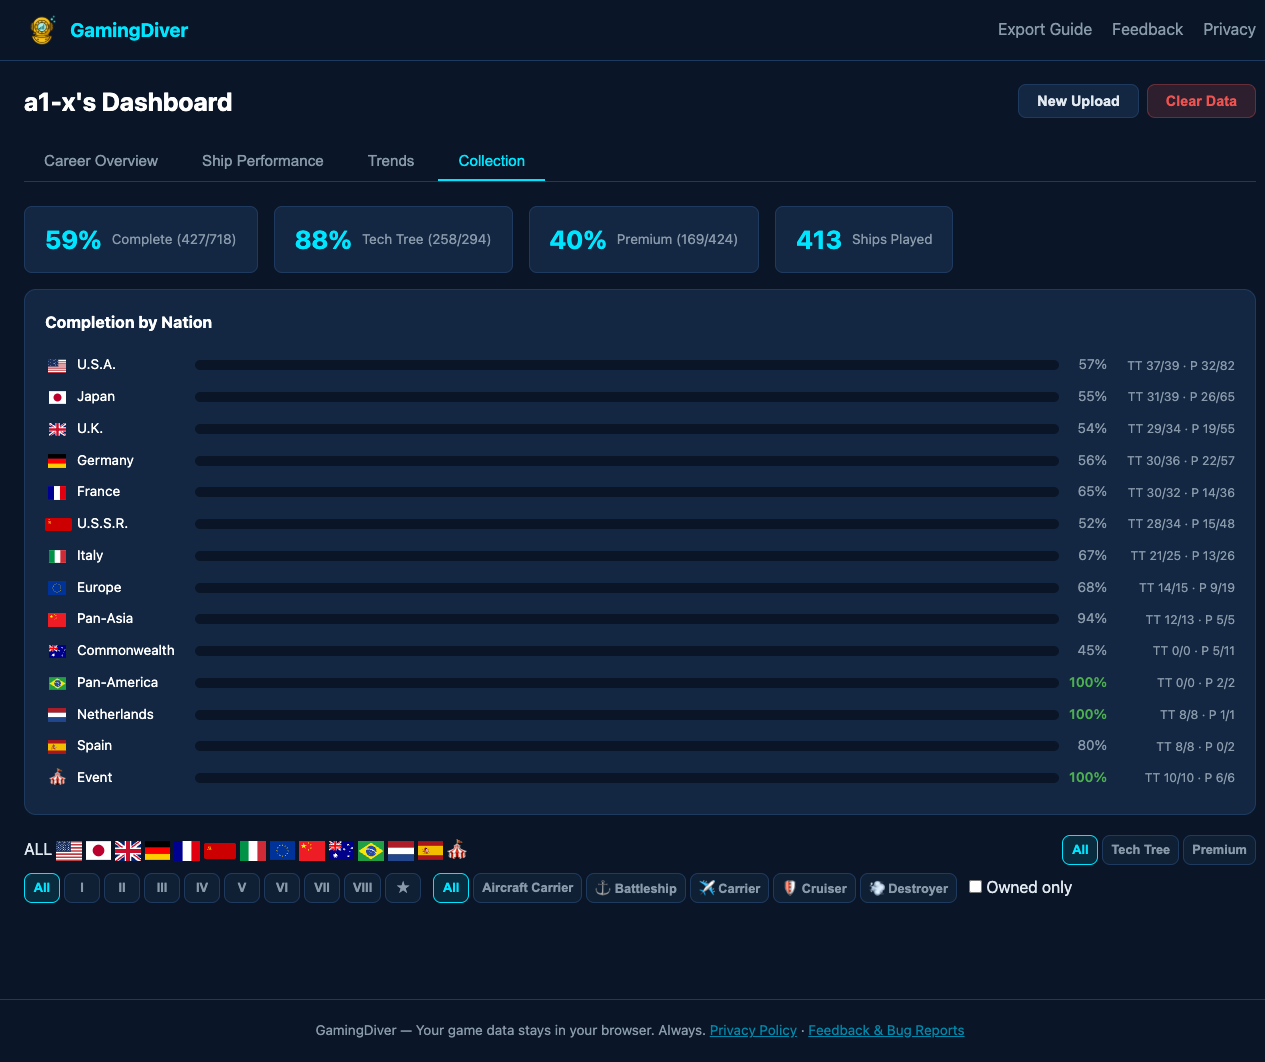
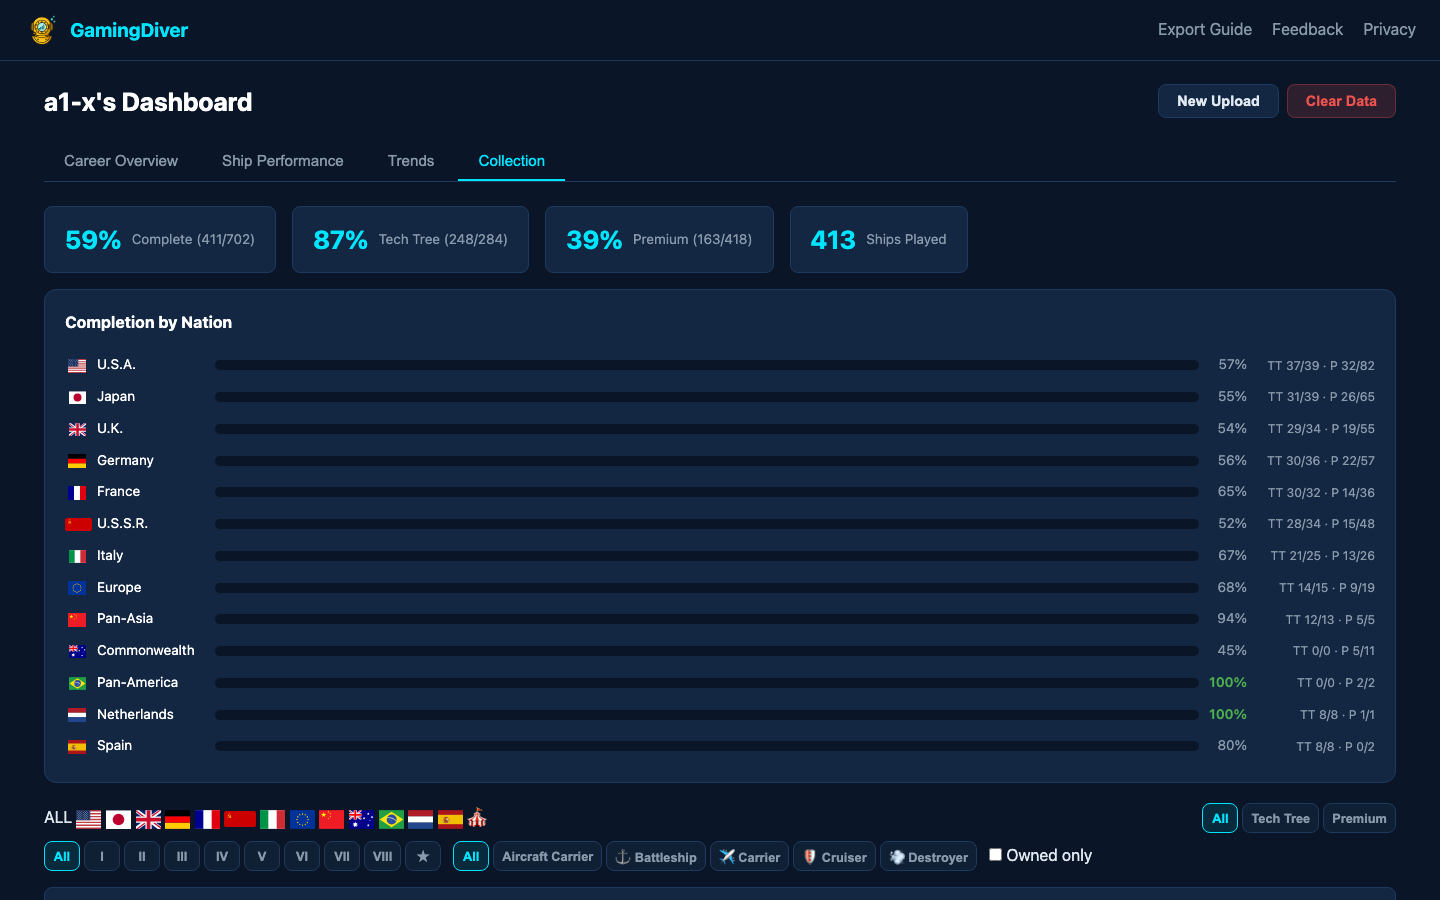
Fix: nation flag buttons on Collection page now highlight when active

diff --git a/css/style.css b/css/style.css
@@ -187,13 +187,13 @@ body {
 .class-buttons { display: flex; gap: 4px; }
 .ship-filter-row, .coll-filter-row { display: flex; flex-direction: column; gap: 8px; margin-bottom: 16px; }
 .nation-icons { display: flex; gap: 4px; flex-wrap: wrap; }
-.nation-btn {
-  width: 34px; height: 34px; display: flex; align-items: center; justify-content: center;
+.nation-btn, .nation-icon {
+  min-width: 34px; height: 34px; display: flex; align-items: center; justify-content: center;
   border-radius: var(--radius); border: 1px solid var(--border); background: var(--bg-mid);
-  cursor: pointer; font-size: 1.1em; transition: all 0.2s; padding: 0;
+  cursor: pointer; font-size: 1.1em; transition: all 0.2s; padding: 0 4px;
 }
-.nation-btn:hover { border-color: var(--accent-dim); background: var(--bg-card-hover); }
-.nation-btn.active { border-color: var(--accent); background: rgba(0,229,255,0.1); box-shadow: 0 0 6px rgba(0,229,255,0.2); }
+.nation-btn:hover, .nation-icon:hover { border-color: var(--accent-dim); background: var(--bg-card-hover); }
+.nation-btn.active, .nation-icon.active { border-color: var(--accent); background: rgba(0,229,255,0.1); box-shadow: 0 0 6px rgba(0,229,255,0.2); }
 .tier-buttons { display: flex; gap: 4px; flex-wrap: wrap; }
 .tier-btn {
   min-width: 36px; height: 30px; display: flex; align-items: center; justify-content: center;

diff --git a/index.html b/index.html
@@ -25,7 +25,7 @@
   <meta name="twitter:image" content="https://gamingdiver.com/img/og-preview.png">
 
   <link rel="stylesheet" href="https://cdn.jsdelivr.net/gh/lipis/flag-icons@7.2.3/css/flag-icons.min.css">
-  <link rel="stylesheet" href="css/style.css?v=1772806543">
+  <link rel="stylesheet" href="css/style.css?v=1772806544">
   <link rel="icon" href="img/logo-favicon.png" type="image/png">
   <link rel="apple-touch-icon" href="img/logo-favicon.png">
 
@@ -260,9 +260,9 @@
   <script src="https://cdn.jsdelivr.net/npm/chart.js@4.4.1/dist/chart.umd.min.js"></script>
   
   <!-- App -->
-  <script src="js/vehicle-mapping.js?v=1772806543"></script>
-  <script src="js/wows-analyzer.js?v=1772806543"></script>
-  <script src="js/dashboard.js?v=1772806543"></script>
-  <script src="js/app.js?v=1772806543"></script>
+  <script src="js/vehicle-mapping.js?v=1772806544"></script>
+  <script src="js/wows-analyzer.js?v=1772806544"></script>
+  <script src="js/dashboard.js?v=1772806544"></script>
+  <script src="js/app.js?v=1772806544"></script>
 </body>
 </html>
